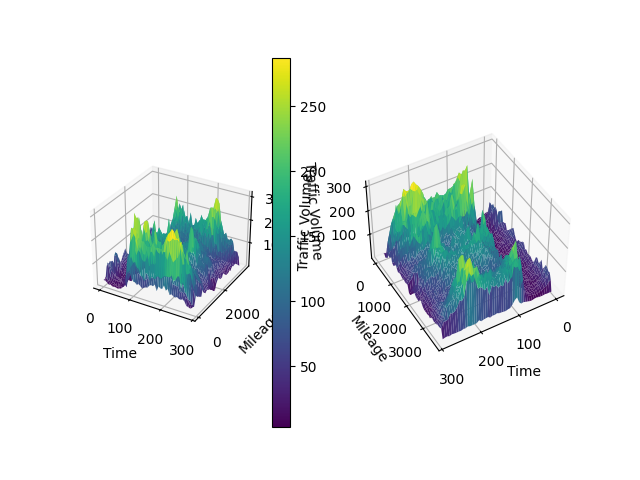
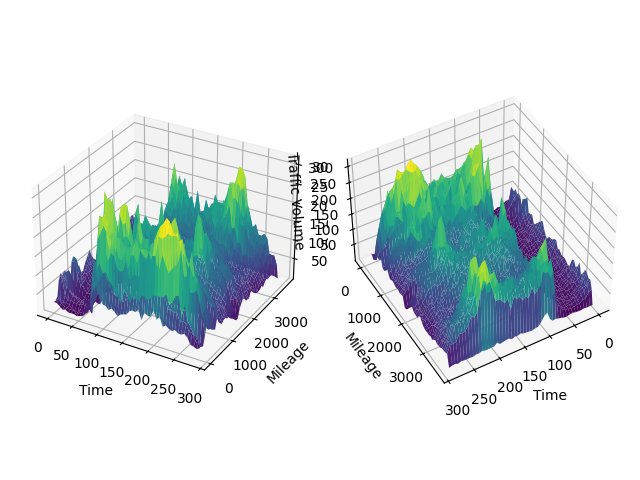
2v

diff --git a/20240514/cubicspline_2v.py b/20240514/cubicspline_2v.py
@@ -46,7 +46,7 @@ ax = fig.add_subplot(121, projection='3d')
 surf = ax.plot_surface(x, y, z, cmap='viridis')
 
 # 添加顏色條
-fig.colorbar(surf)
+#fig.colorbar(surf)
 
 # 設置坐標軸標籤
 ax.set_xlabel('Time')
@@ -63,6 +63,7 @@ ax1.set_ylabel('Mileage')
 ax1.set_zlabel('Traffic Volume')
 ax1.view_init(elev=45, azim=60)
 
+plt.tight_layout()
 # 顯示圖形
 plt.savefig('cubicspline_2v.png')
 print(data)
